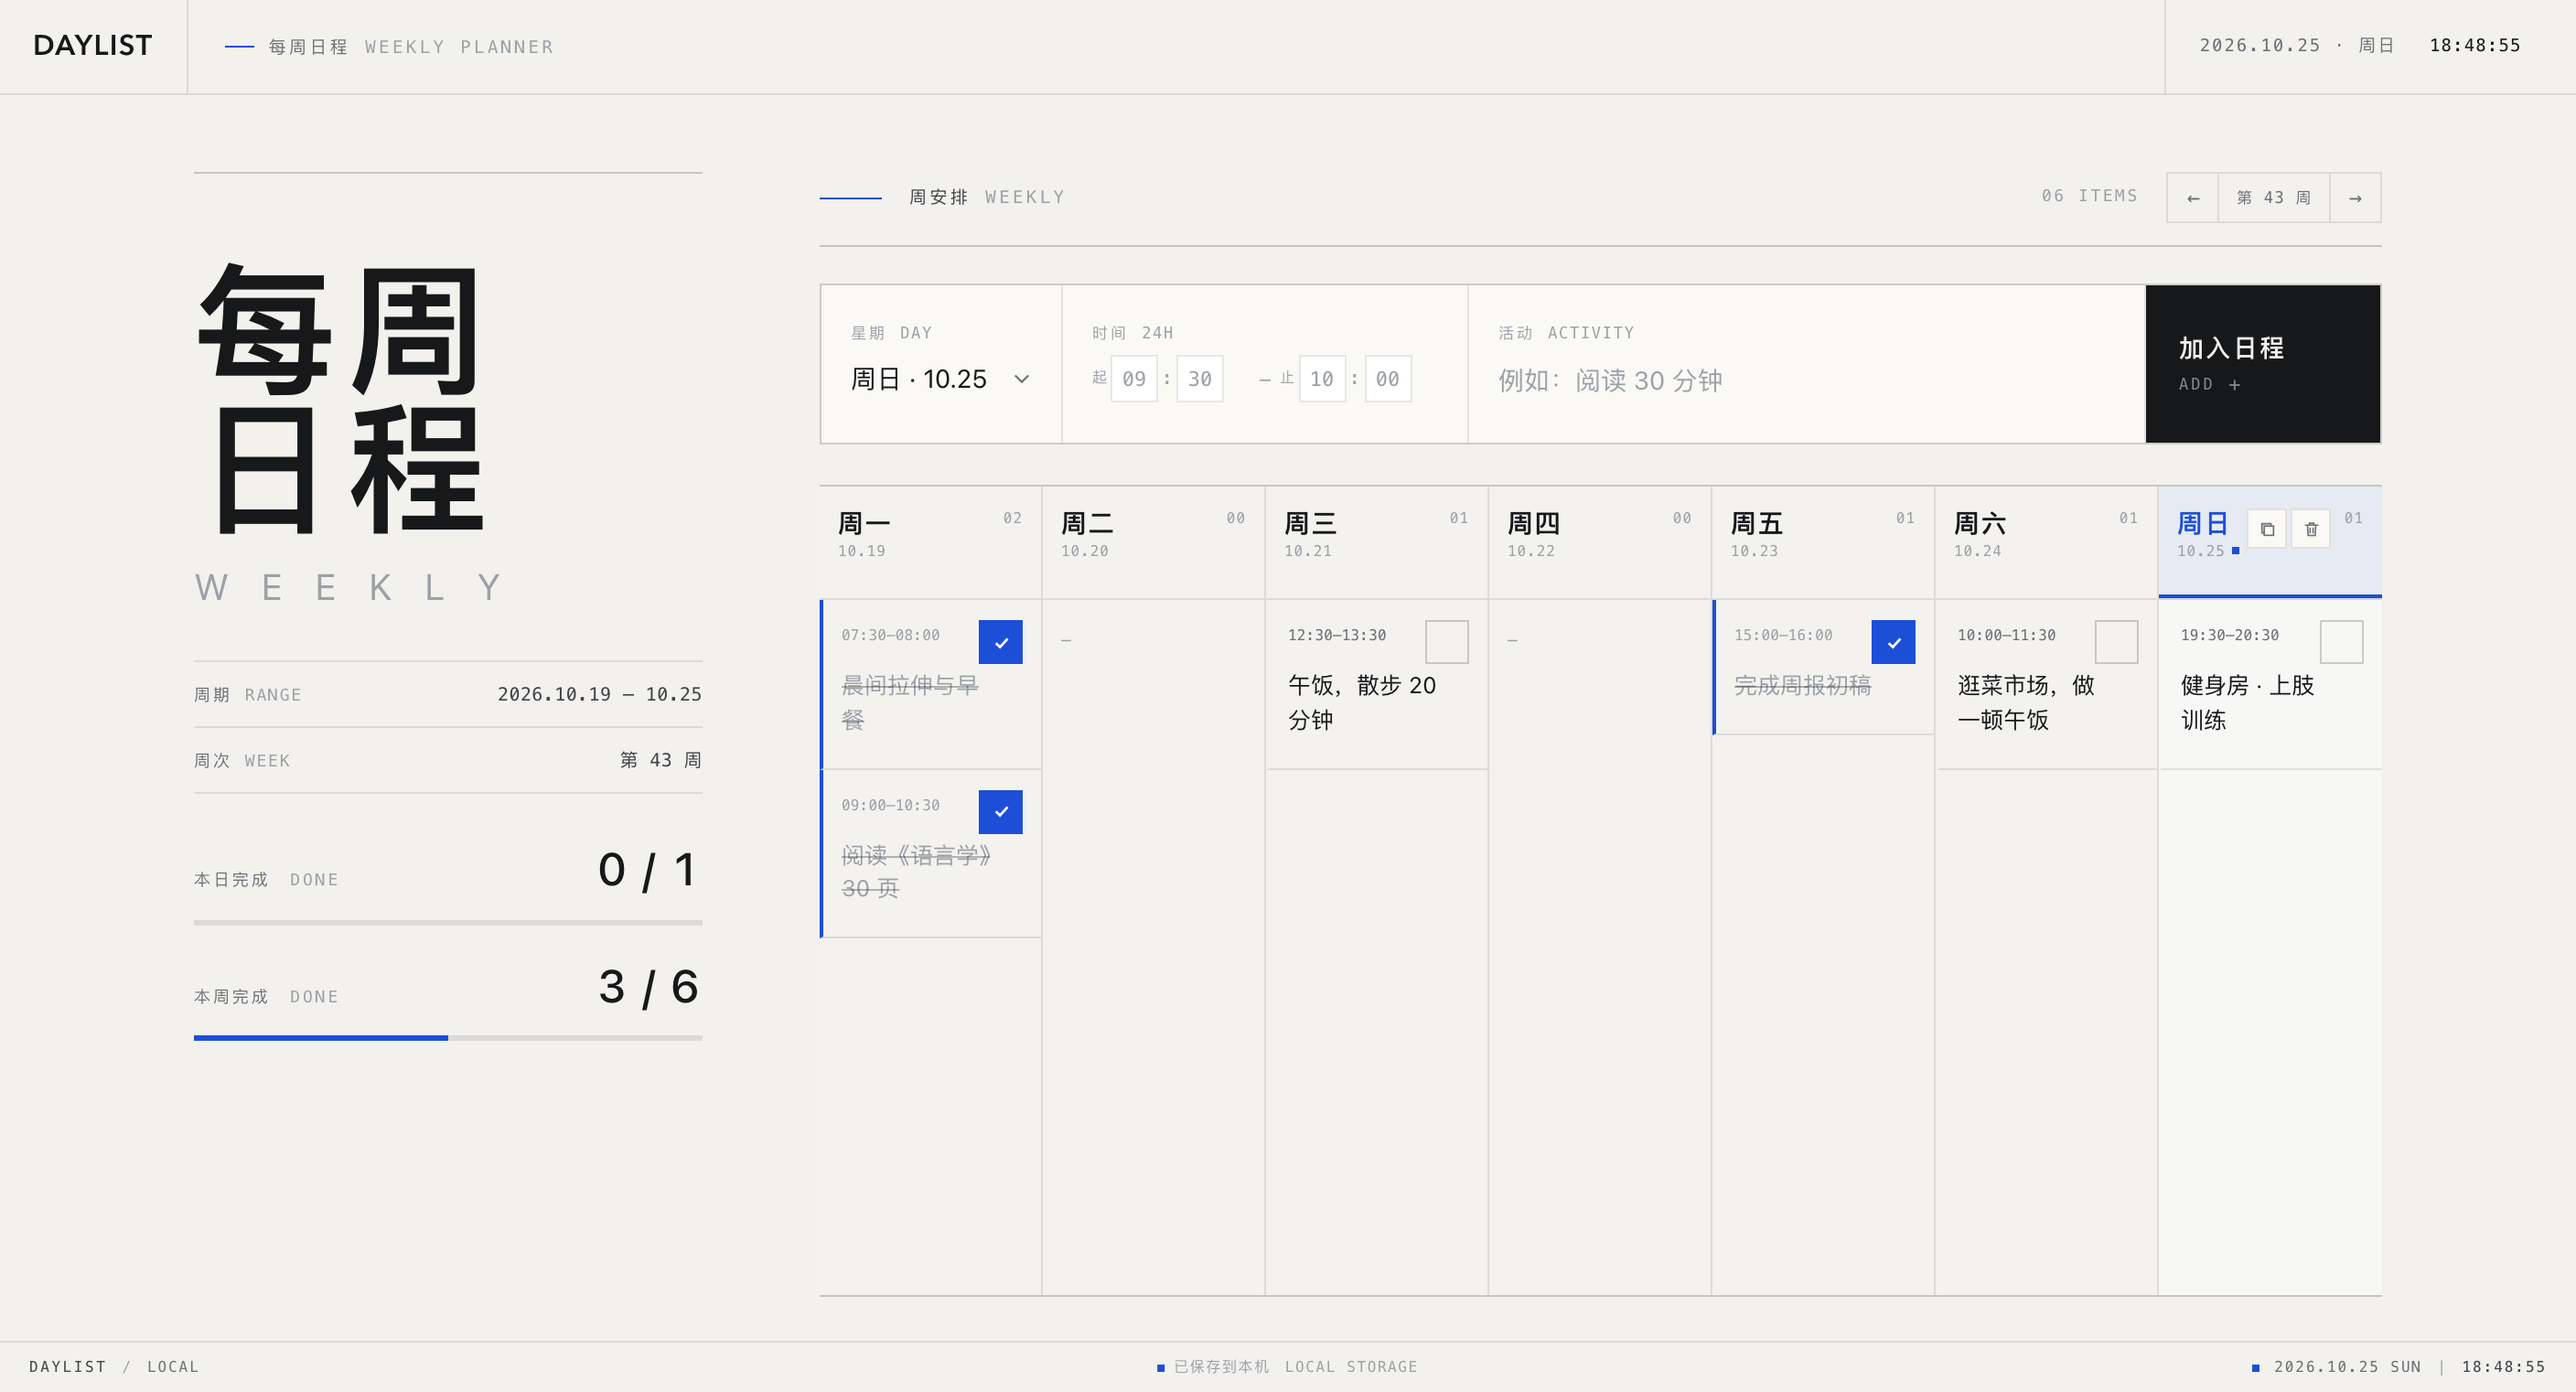
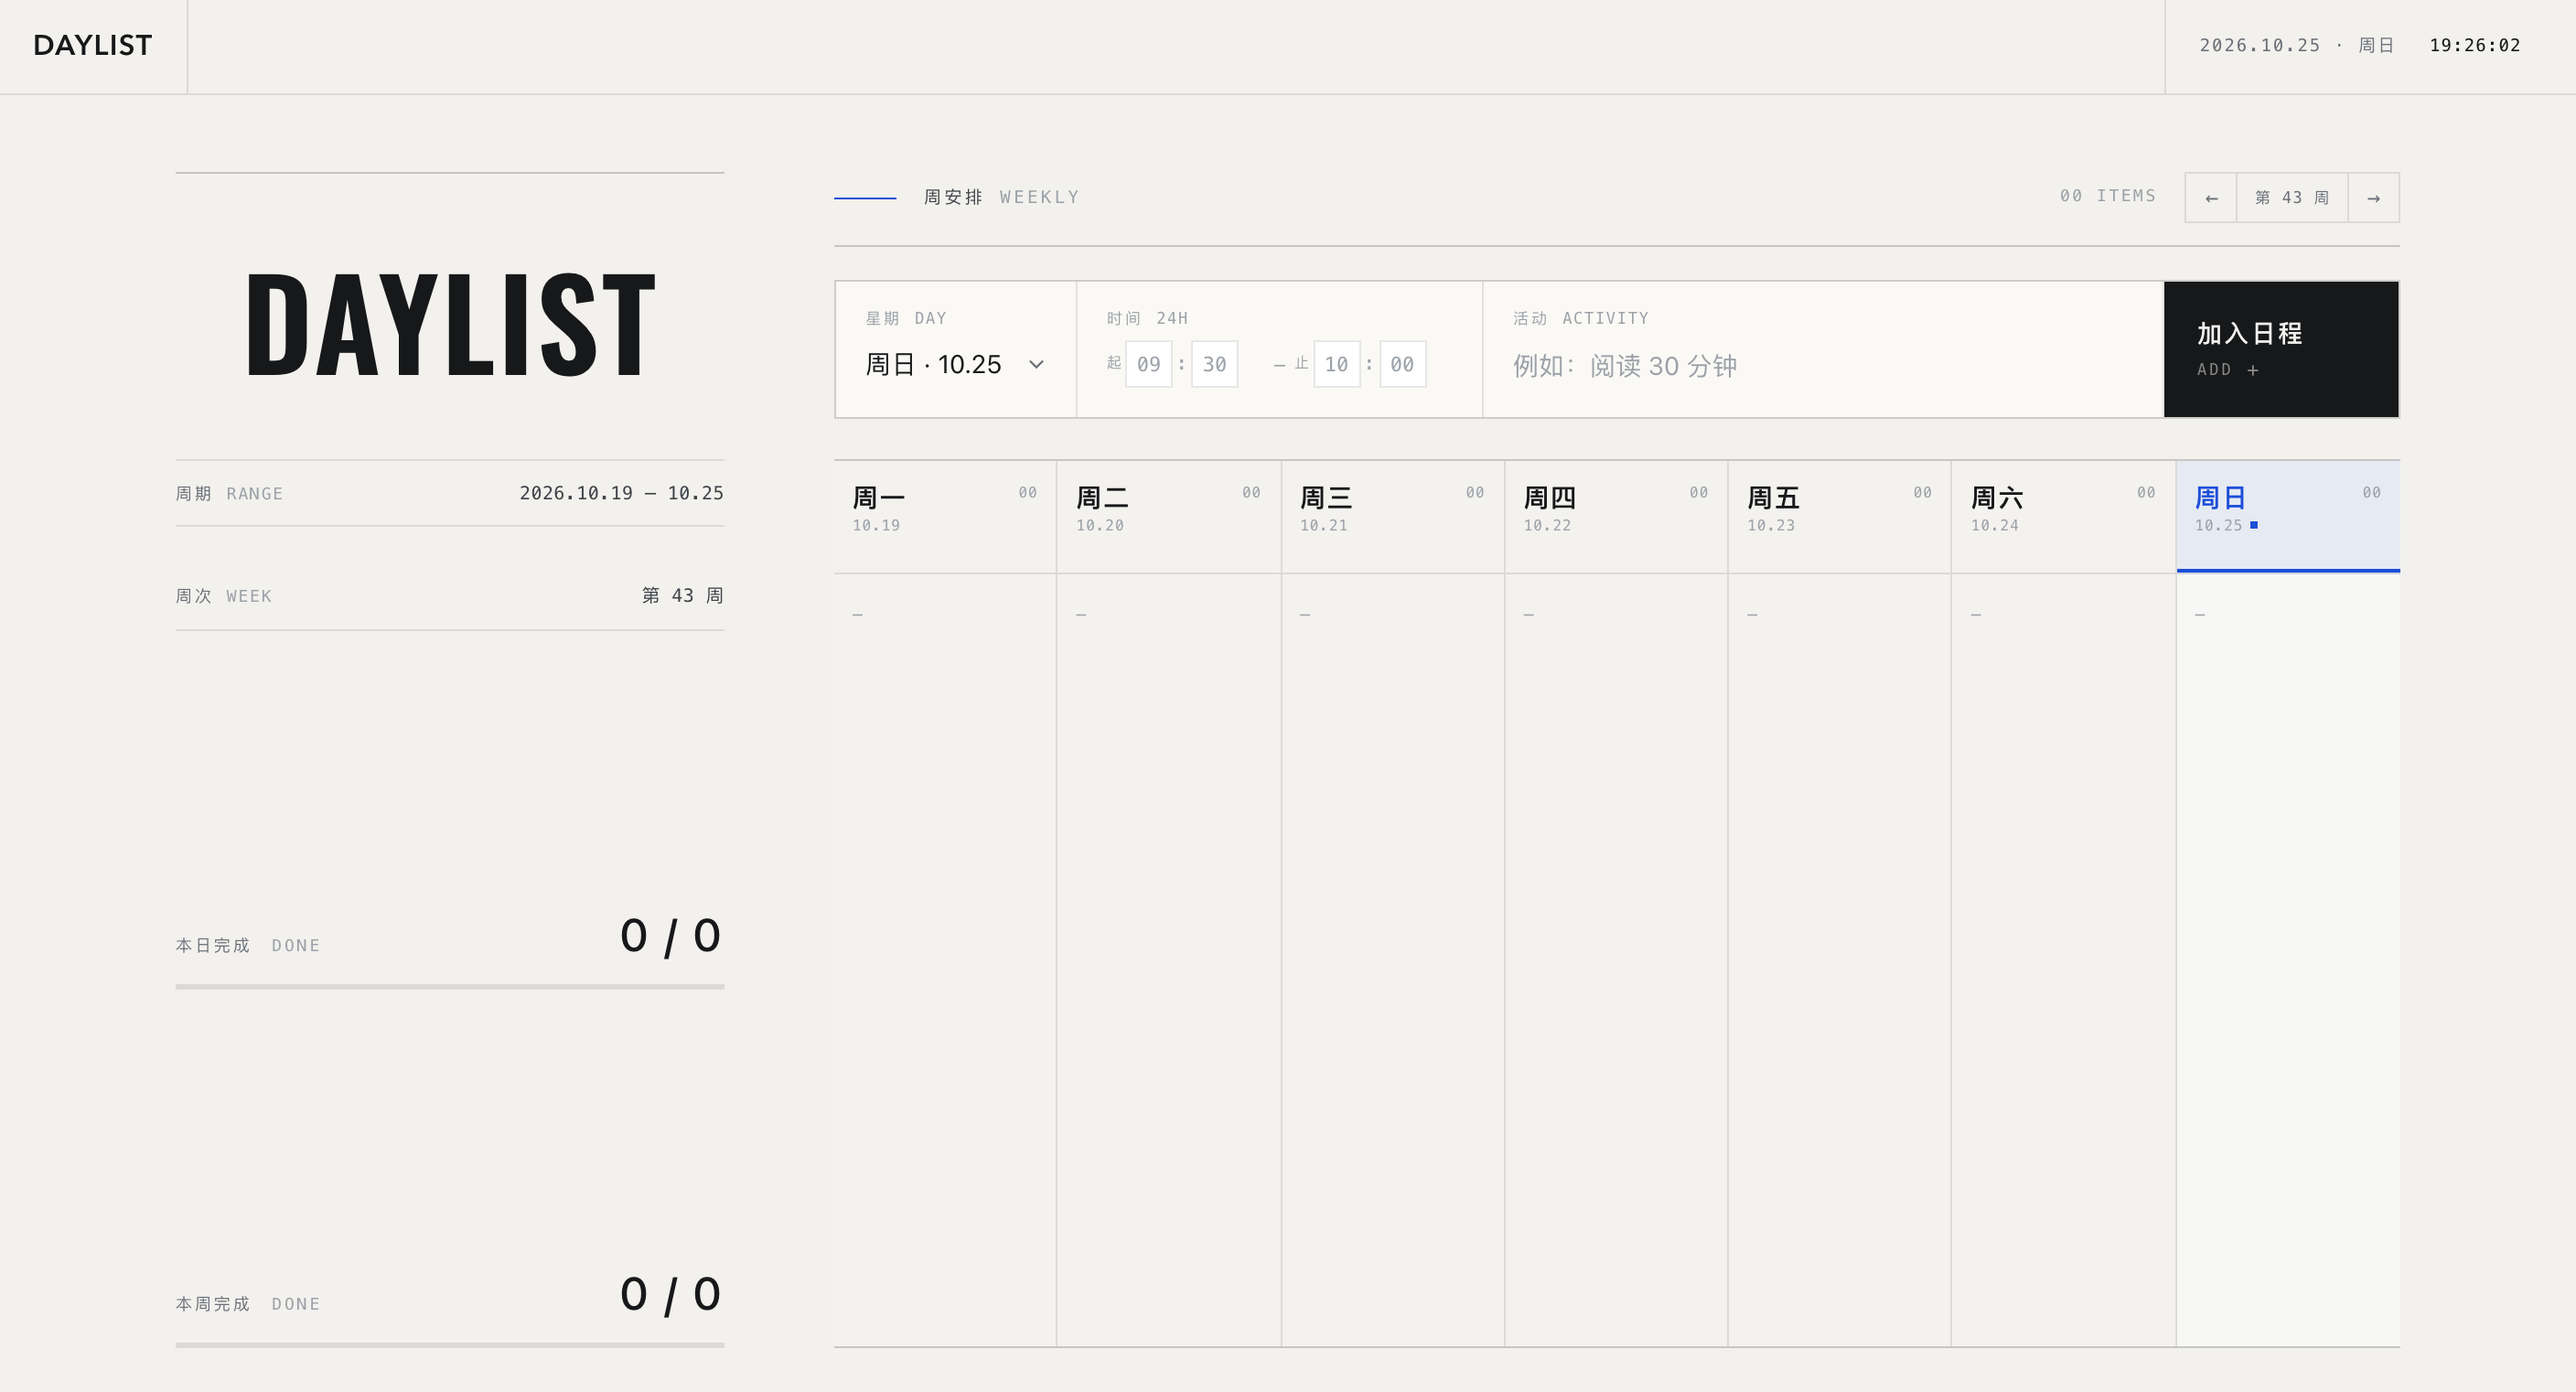
ui update

diff --git a/assets/css/style.css b/assets/css/style.css
@@ -1,3 +1,11 @@
+@font-face {
+  font-family: "Oswald";
+  src: url("../fonts/oswald-latin.woff2") format("woff2");
+  font-style: normal;
+  font-weight: 400 700;
+  font-display: swap;
+}
+
 /* ============================================================
    Daylist —— 每周日程
    暖灰纸面 / 深色文字 / 单点蓝
@@ -38,8 +46,8 @@
   --display: var(--sans);
 
   --nav-h: 52px;
-  --status-h: 28px;
-  --shell-w: 1260px;
+  --status-h: 0px;
+  --shell-w: 1280px;
 }
 
 *, *::before, *::after { box-sizing: border-box; }
@@ -171,8 +179,6 @@ a { color: inherit; text-decoration: none; }
   padding: 0 18px;
   border-right: 1px solid var(--line-2);
 }
-.brand:hover .brand-text b { color: var(--brand-deep); }
-
 .brand-text {
   display: flex;
   align-items: center;
@@ -221,10 +227,10 @@ a { color: inherit; text-decoration: none; }
   width: 100%;
   max-width: var(--shell-w);
   margin: 0 auto;
-  padding: calc(var(--nav-h) + 60px) 32px calc(var(--status-h) + 84px);
+  padding: calc(var(--nav-h) + 60px) 32px calc(var(--status-h) + 56px);
   display: grid;
-  grid-template-columns: minmax(240px, 278px) minmax(0, 1fr);
-  gap: clamp(40px, 4.8vw, 64px);
+  grid-template-columns: minmax(270px, 300px) minmax(0, 1fr);
+  gap: clamp(40px, 4.8vw, 60px);
   align-items: start;
 }
 
@@ -246,24 +252,25 @@ a { color: inherit; text-decoration: none; }
 }
 
 .intro-wordmark {
-  display: inline-flex;
+  display: flex;
   flex-direction: column;
   align-items: stretch;
+  width: fit-content;
   max-width: 100%;
-  margin-top: 28px;
+  margin: 28px auto 0;
 }
 .intro h1 {
   margin-top: 0;
-  font-family: var(--display);
-  font-weight: 700;
-  font-size: clamp(58px, 5.5vw, 78px);
-  line-height: .98;
-  letter-spacing: .08em;
+  font-family: "Oswald", "Helvetica Neue", Arial, sans-serif;
+  font-weight: 600;
+  font-size: clamp(54px, 4.9vw, 68px);
+  line-height: 1;
+  letter-spacing: .02em;
+  text-align: center;
+  white-space: nowrap;
   color: var(--fg);
+  animation: rise-in .48s ease both;
 }
-.intro h1 span { display: block; }
-.intro h1 span:first-child { animation: rise-in .48s ease both; }
-.intro h1 span:last-child  { animation: rise-in .48s .05s ease both; }
 
 .intro-latin {
   display: flex;
@@ -448,8 +455,8 @@ a { color: inherit; text-decoration: none; }
 .add-form {
   display: grid;
   grid-template-columns: 132px 222px minmax(0, 1fr) 128px;
-  min-height: 88px;
-  margin-top: 20px;
+  min-height: 76px;
+  margin-top: 18px;
   background: var(--paper);
   border: 1px solid var(--line);
   transition: border-color .2s ease, box-shadow .2s ease;
@@ -461,7 +468,7 @@ a { color: inherit; text-decoration: none; }
   flex-direction: column;
   justify-content: center;
   min-width: 0;
-  padding: 15px 16px;
+  padding: 11px 16px;
   border-right: 1px solid var(--line-2);
   transition: background .2s ease, box-shadow .2s ease;
 }
@@ -1036,10 +1043,23 @@ a { color: inherit; text-decoration: none; }
 
   .intro {
     position: static;
+    display: flex;
+    flex-direction: column;
     max-height: 100%;
     overflow-y: auto;
     overscroll-behavior: contain;
   }
+
+  .intro-wordmark,
+  .date-meta,
+  .week-return,
+  .progress { flex: none; }
+
+  .intro > .date-meta { margin-top: 42px; }
+  .intro > .week-return { margin-top: 0; }
+  .intro > .progress { margin-top: auto; }
+
+  .intro > .date-meta .meta-row + .meta-row { padding-top: 29px; }
 
   .workspace {
     height: 100%;
@@ -1093,10 +1113,9 @@ a { color: inherit; text-decoration: none; }
   }
   .intro h1 {
     margin-top: 0;
-    font-size: clamp(54px, 7vw, 70px);
+    font-size: clamp(56px, 7vw, 72px);
     line-height: 1;
   }
-  .intro h1 span { display: inline; margin-right: .1em; }
   .intro-latin {
     margin-top: 14px;
     font-size: 17px;
@@ -1171,7 +1190,7 @@ a { color: inherit; text-decoration: none; }
   .top-date-cn { font-size: 8.5px; letter-spacing: .04em; }
 
   .shell {
-    padding: calc(var(--nav-h) + 30px) 18px calc(var(--status-h) + 66px);
+    padding: calc(var(--nav-h) + 30px) 18px calc(var(--status-h) + 42px);
     gap: 38px;
   }
   .intro {
@@ -1181,8 +1200,8 @@ a { color: inherit; text-decoration: none; }
   .intro-wordmark { margin-top: 24px; }
   .intro h1 {
     margin-top: 0;
-    font-size: clamp(46px, 15vw, 62px);
-    letter-spacing: .07em;
+    font-size: clamp(48px, 14vw, 60px);
+    letter-spacing: .02em;
   }
   .intro-latin {
     margin-top: 12px;

diff --git a/index.html b/index.html
@@ -14,12 +14,8 @@
 <a class="skip-link" href="#plan">跳到周安排</a>
 
 <header class="topbar">
-  <a class="brand" href="./" aria-label="DAYLIST">
+  <div class="brand">
     <span class="brand-text"><b>DAYLIST</b></span>
-  </a>
-
-  <div class="top-mid">
-    <span class="mic">每周日程 <i>WEEKLY PLANNER</i></span>
   </div>
 
   <div class="top-date">
@@ -31,10 +27,7 @@
 <main class="shell">
   <aside class="intro" aria-labelledby="pageTitle">
     <div class="intro-wordmark">
-      <h1 id="pageTitle"><span>每周</span><span>日程</span></h1>
-      <p class="intro-latin" aria-hidden="true">
-        <span>W</span><span>E</span><span>E</span><span>K</span><span>L</span><span>Y</span>
-      </p>
+      <h1 id="pageTitle">DAYLIST</h1>
     </div>
 
     <dl class="date-meta">
@@ -146,22 +139,7 @@
   </button>
 </div>
 
-<footer class="statusbar">
-  <span class="sb-left">
-    <b>DAYLIST</b><span class="sb-sep">/</span><span>LOCAL</span>
-  </span>
-  <span class="sb-mid">
-    <span class="save-dot" id="saveDot" aria-hidden="true"></span>
-    <span id="saveState">已保存到本机</span>
-    <i>LOCAL STORAGE</i>
-  </span>
-  <span class="sb-right">
-    <span class="sb-dot" aria-hidden="true"></span>
-    <span id="footDate">—</span>
-    <span class="sb-sep">|</span>
-    <time id="clock">--:--:--</time>
-  </span>
-</footer>
+
 
 <div class="live" id="live" aria-live="polite" aria-atomic="true"></div>
 

diff --git a/assets/js/app.js b/assets/js/app.js
@@ -193,13 +193,15 @@
   function updateDateLabels(date) {
     const weekday = DAY_NAMES[(date.getDay() + 6) % 7];
     $("#topDate").textContent = `${dotDate(date)} · ${weekday}`;
-    $("#footDate").textContent = `${dotDate(date)} ${DAY_EN[date.getDay()]}`;
+    const footDate = $("#footDate");
+    if (footDate) footDate.textContent = `${dotDate(date)} ${DAY_EN[date.getDay()]}`;
   }
 
   function updateClock() {
     const date = new Date();
     $("#topClock").textContent = `${pad2(date.getHours())}:${pad2(date.getMinutes())}:${pad2(date.getSeconds())}`;
-    $("#clock").textContent = `${pad2(date.getHours())}:${pad2(date.getMinutes())}:${pad2(date.getSeconds())}`;
+    const footerClock = $("#clock");
+    if (footerClock) footerClock.textContent = `${pad2(date.getHours())}:${pad2(date.getMinutes())}:${pad2(date.getSeconds())}`;
 
     if (dateKey(date) !== lastDateKey) {
       lastDateKey = dateKey(date);

diff --git a/README.md b/README.md
@@ -45,7 +45,8 @@ daylist/
 ├── screenshots/
 └── assets/
     ├── css/style.css
-    └── js/app.js
+    ├── js/app.js
+    └── fonts/oswald-latin.woff2
 ```
 
 数据保存在浏览器的 `localStorage`（键名 `daylist.week.v2`）。清除站点数据会同时清除所有周的日程。
